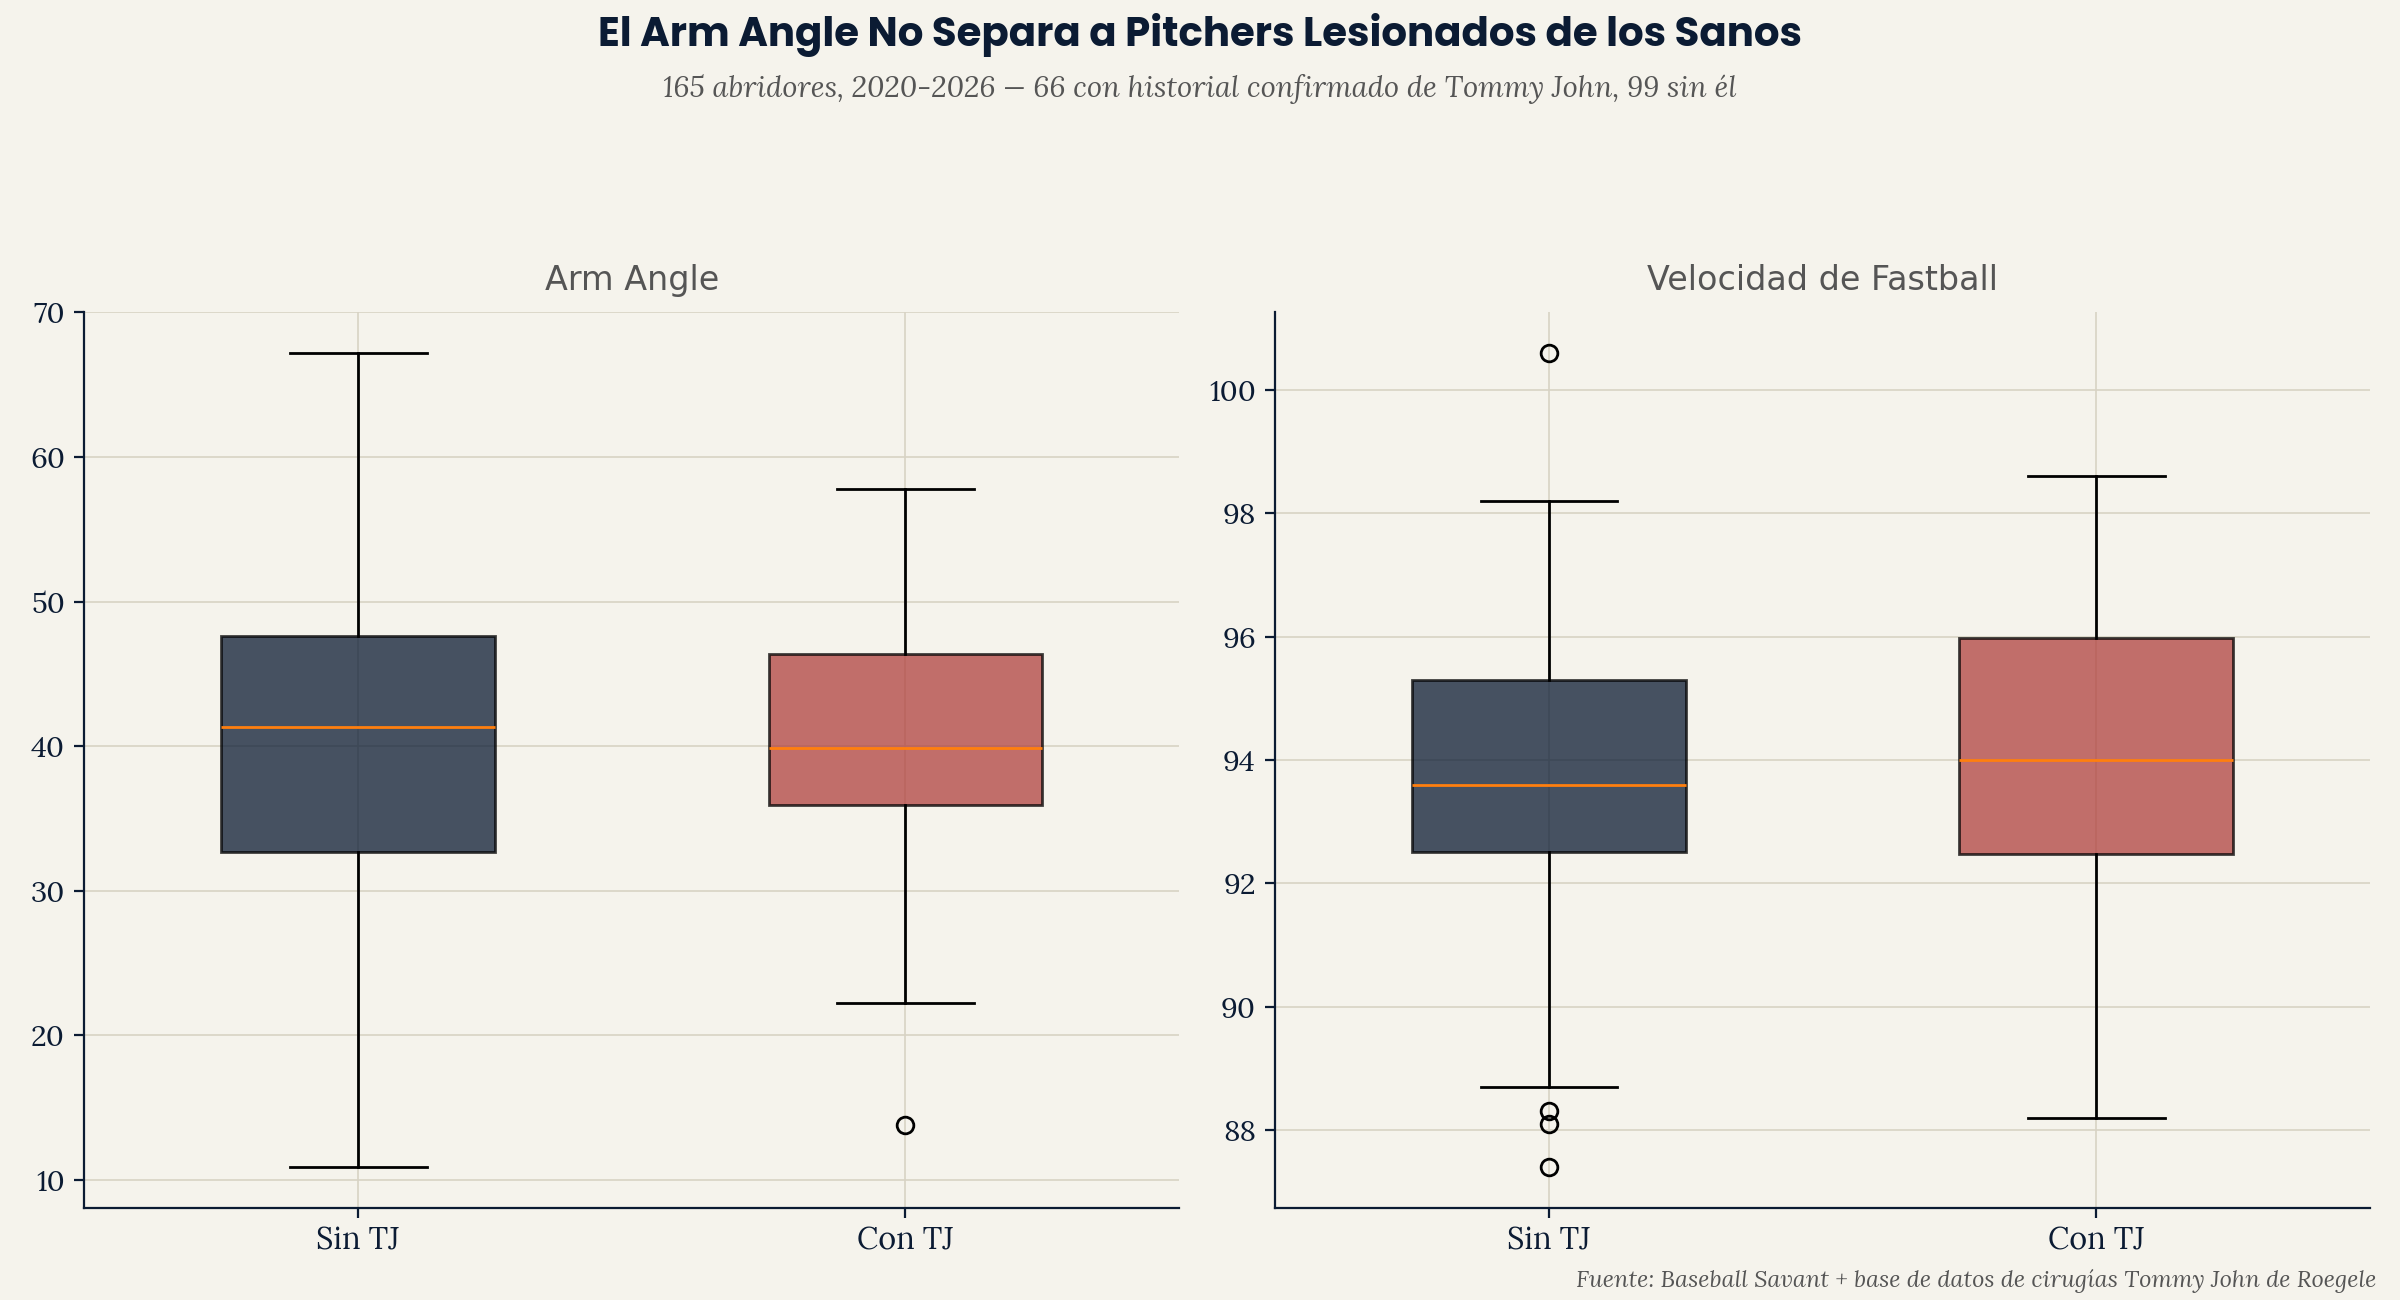
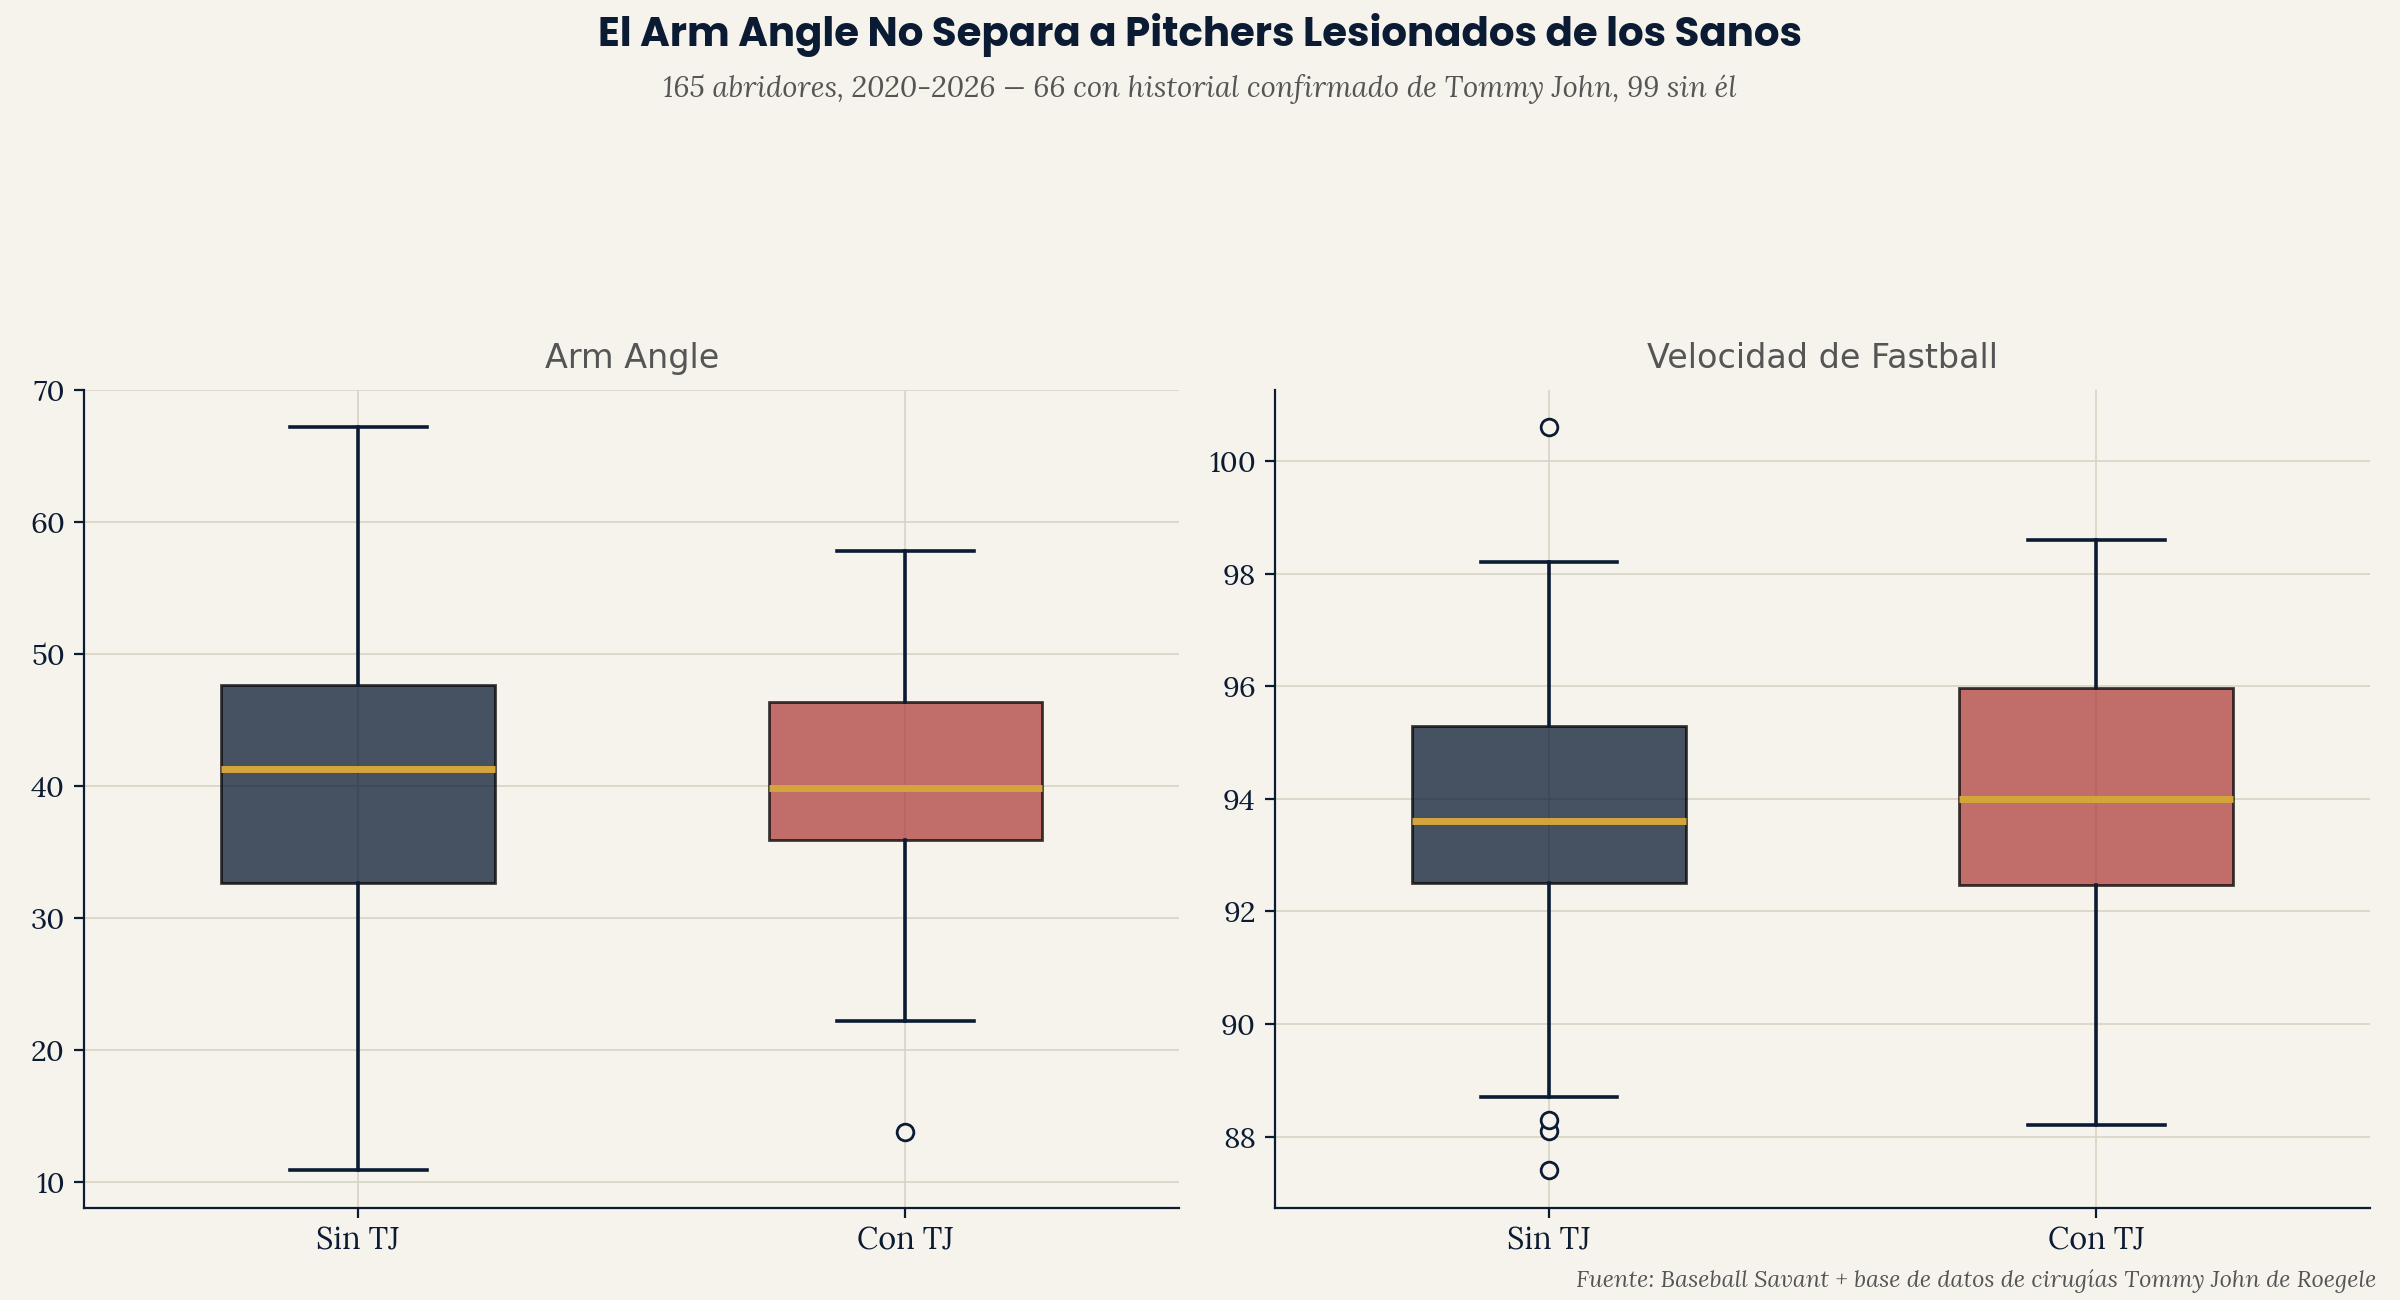
Fix chart colors to match EP brand palette

diff --git a/scripts/injury_validation_analysis.py b/scripts/injury_validation_analysis.py
@@ -66,6 +66,20 @@ def plot_comparison(df: pd.DataFrame, lang: str) -> None:
         bp["boxes"][1].set_facecolor(EP_COLORS["red"])
         for box in bp["boxes"]:
             box.set_alpha(0.75)
+        # Colores de marca en vez de los defaults de matplotlib (bigotes/mediana/outliers
+        # negros y naranja no existen en la paleta EP - se ven fuera de lugar)
+        for whisker in bp["whiskers"]:
+            whisker.set_color(EP_COLORS["navy"])
+            whisker.set_linewidth(1.3)
+        for cap in bp["caps"]:
+            cap.set_color(EP_COLORS["navy"])
+            cap.set_linewidth(1.3)
+        for median in bp["medians"]:
+            median.set_color(EP_COLORS["gold"])
+            median.set_linewidth(2.5)
+        for flier in bp["fliers"]:
+            flier.set(marker="o", markerfacecolor=EP_COLORS["off_white"],
+                      markeredgecolor=EP_COLORS["navy"], markersize=6)
         ax.set_title(title_en if lang == "en" else title_es, fontsize=12,
                      color=EP_COLORS["subtitle_grey"], pad=8)
         if FONT_TICK:
@@ -92,7 +106,7 @@ def plot_comparison(df: pd.DataFrame, lang: str) -> None:
         add_source(fig, "Fuente: Baseball Savant + base de datos de cirugías Tommy John de Roegele")
         fname = OUTPUT_DIR / "injury_comparison_ES.png"
 
-    fig.tight_layout(rect=[0, 0.01, 1, 0.88])
+    fig.tight_layout(rect=[0, 0.01, 1, 0.82])
     plt.savefig(fname, dpi=200, facecolor=EP_COLORS["off_white"])
     plt.close(fig)
     print(f"Guardado: {fname}")
